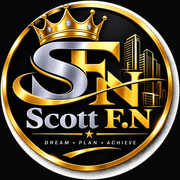
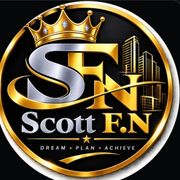
Update Scott FN branding emblem

diff --git a/index.html b/index.html
@@ -153,4 +153,4 @@ window.addEventListener('sfn:render',()=>{if(state.view!=='appearance')return;co
 document.addEventListener('change',event=>{const id=event.target.id;if(id==='eyeCarePick')state.eyeCare=event.target.checked;if(id==='contrastPick')state.highContrast=event.target.checked;if(id==='motionPick')state.reduceMotion=event.target.checked;if(id==='targetsPick')state.largeTargets=event.target.checked;if(['eyeCarePick','contrastPick','motionPick','targetsPick'].includes(id)){save();applyStyle();return}if(id==='textSizePick'){state.textSize=Number(event.target.value)||100;save();applyStyle();const label=document.querySelector('#textSizeValue');if(label)label.textContent=state.textSize+'%'}});document.addEventListener('input',event=>{if(event.target.id==='textSizePick'){state.textSize=Number(event.target.value)||100;document.documentElement.style.setProperty('--text-size',state.textSize/100);const label=document.querySelector('#textSizeValue');if(label)label.textContent=state.textSize+'%';save()}});
 function enhanceAccessGate(setup){const gate=$('#accessGate');if(!gate)return;if(!setup&&biometricRecord()){let button=$('#biometricButton');if(!button){button=document.createElement('button');button.id='biometricButton';button.type='button';button.className='access-main';button.style.marginTop='12px';gate.querySelector('#accessForm')?.after(button)}button.textContent='◉  Face ID / fingerprint';button.onclick=()=>unlockBiometric().catch(error=>{$('#accessError').textContent=error.message||'Biometric unlock failed.'})}if(!setup&&!gate.querySelector('.access-auto-note')){const note=document.createElement('p');note.className='access-bio-note access-auto-note';note.textContent='Enter the correct password to open your workspace immediately.';gate.querySelector('#accessForm')?.append(note)}const pass=gate.querySelector('#accessPass'),form=gate.querySelector('#accessForm');if(!setup&&pass&&form&&!pass.dataset.autoUnlock){pass.dataset.autoUnlock='1';pass.addEventListener('change',async()=>{try{const rec=accessRecord();if(!rec||pass.value.length<8)return;const salt=Uint8Array.from(atob(rec.salt),c=>c.charCodeAt(0));if(toB64(await passwordHash(pass.value,salt))===rec.hash)form.requestSubmit()}catch{}})}}
 const originalShowAccessGate=showAccessGate;showAccessGate=function(setup=false){originalShowAccessGate(setup);enhanceAccessGate(setup)};enhanceAccessGate(false);
-</script><script>if('serviceWorker'in navigator){window.addEventListener('load',()=>navigator.serviceWorker.register('./sw.js').catch(()=>{}),{once:true})}</script><script src="firebase-config.js"></script><script type="module" src="members.js"></script></body></html>
+</script><script>document.querySelector('.access-logo')?.setAttribute('src','assets/scott-fn-app-icon-1024.png');if('serviceWorker'in navigator){window.addEventListener('load',()=>navigator.serviceWorker.register('./sw.js').catch(()=>{}),{once:true})}</script><script src="firebase-config.js"></script><script type="module" src="members.js"></script></body></html>

diff --git a/sw.js b/sw.js
@@ -1,4 +1,4 @@
-const CACHE_NAME = 'sfn-shell-v13';
+const CACHE_NAME = 'sfn-shell-v14';
 const APP_FILES = [
   './',
   './index.html',
